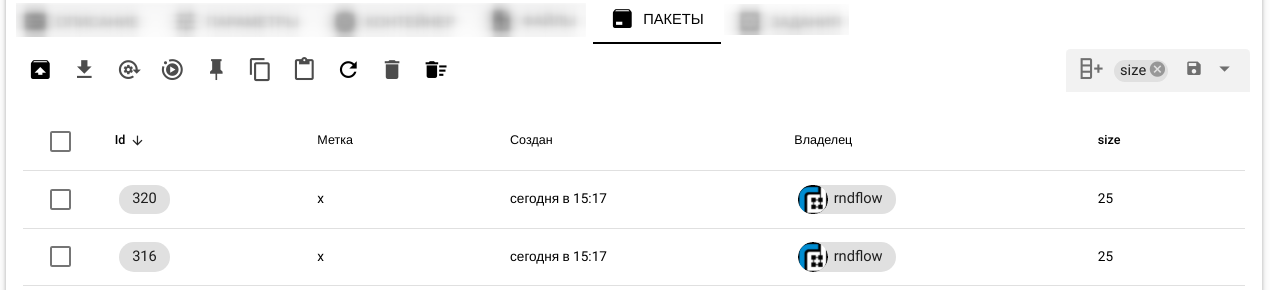
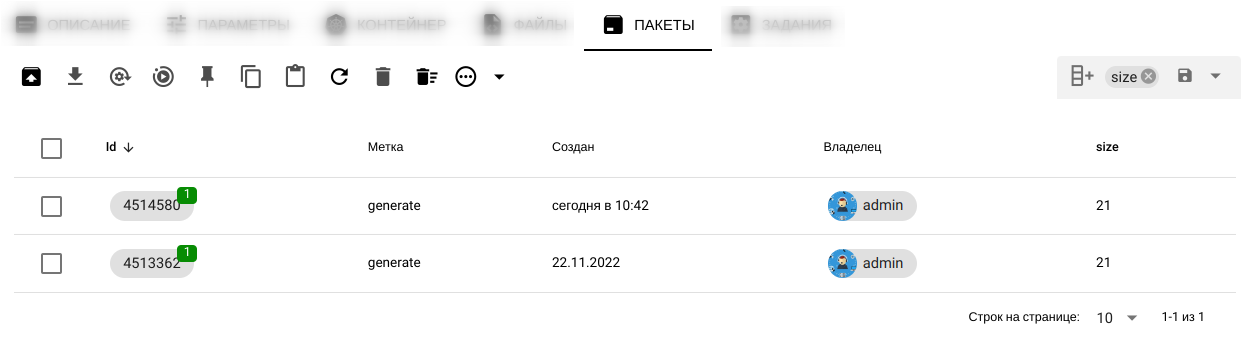
Add packages jobs filter info

diff --git a/src/desc/nodes.md b/src/desc/nodes.md
@@ -256,6 +256,16 @@ Cтруктура:
   - <span class="iconify-inline" data-icon="mdi:refresh"></span> Обновление списка пакетов
   - <span class="iconify-inline" data-icon="mdi:delete"></span> Удаление выбранных пакетов
   - <span class="iconify-inline" data-icon="mdi:delete-sweep"></span> Удаление всех пакетов
+  - <span class="iconify-inline" data-icon="mdi:dots-horizontal-circle-outline"></span> Фильтр по количеству заданий
+
+    По нажатию открывается окно настроек фильтра:
+
+    - Активировать - активация фильтра
+    - Тип операции - позволяет выбрать тип проверки количества заданий на равенство указанному значению или на превышение.
+    - Количество заданий 
+
+    ![Package](/images/common/node_panel_packages_filter.png)
+
   - <span class="iconify-inline" data-icon="mdi:table-column-plus-after"></span> Добавление переменной пакета
 
     Добавление переменной пакета в качестве нового столбца в таблице пакетов.
@@ -280,6 +290,8 @@ Cтруктура:
 Для открытия окна конкретного пакета необходимо щелкнуть по его идентификатору в столбце **Id**.
 
 Структура отображения состава [пакета][4]:
+
+![Package](/images/common/package.png)
 
 - Панель инструментов
 
@@ -307,8 +319,6 @@ Cтруктура:
       или
 
       ![Package](/images/common/package_verification_bad.png)
-
-![Package](/images/common/package.png)
 
 ### Запрос
 
